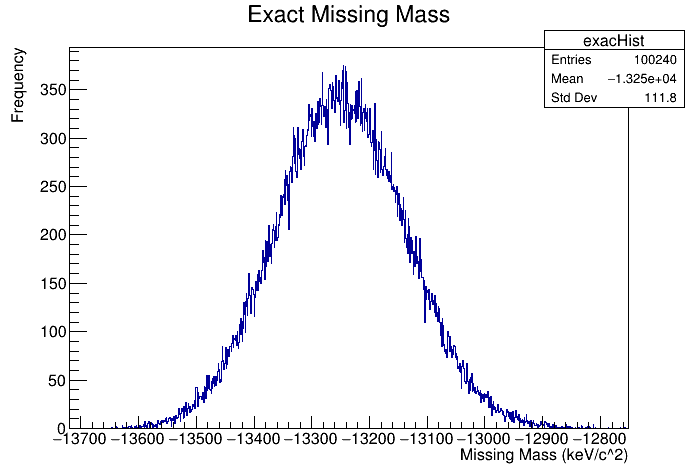
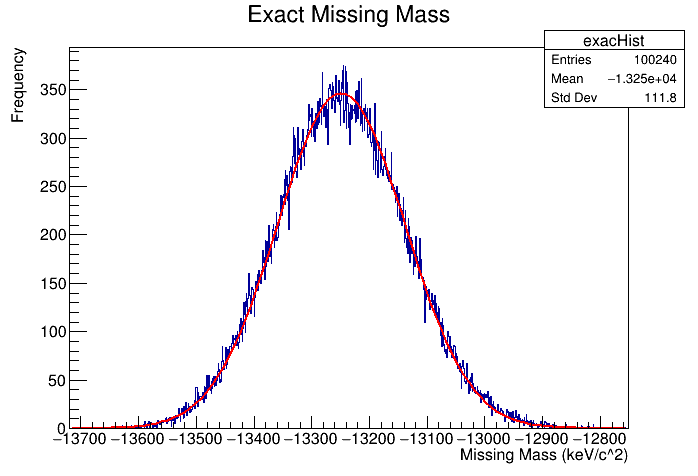
Adding Gaussian to exact mass

diff --git a/build2/exacmass.cpp b/build2/exacmass.cpp
@@ -76,6 +76,10 @@ void exacmass(){
 		exacHist->Fill(missing);
 
 	}
+
+	TF1 *gfit = new TF1("gfit","gaus");
+	exacHist->Fit("gfit","gaus");
+
 	TCanvas* cv = new TCanvas();
 	exacHist->Draw();
 	exacHist->Write();
